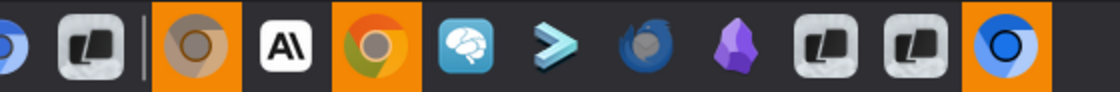
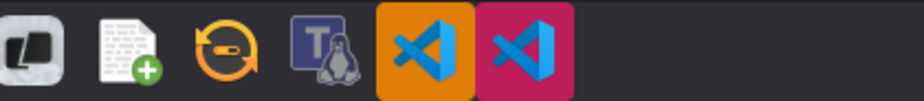
docs: show two colours in the README image, and fix the CI artefact path
The screenshot showed three window buttons all tagged the same orange,
which illustrates the opposite of what the sentence above it promises.
Replaced with two VS Code windows tagged orange and pink side by side:
same application, different colours, told apart at a glance. Captured
from a live panel running the real module, not the spike.

Also fixes the third and last workflow error from the first release
attempt: upload-artifact rejects any path containing "..", and
dpkg-buildpackage writes to the parent directory. The package is now
moved into the workspace before upload, matching what release.yml already
did. The two earlier fixes worked -- the package built, and only the
upload step failed.

diff --git a/README.md b/README.md
@@ -2,9 +2,9 @@
 
 Four VS Code windows in the XFCE panel look like four identical icons. This gives each one its own background colour, so you can find the right window at a glance instead of hovering over each button to read its title.
 
-![Panel window buttons, three of them painted orange while the rest keep the theme's default](docs/images/panel-painted.png)
+![Two VS Code window buttons in the XFCE panel, one tagged orange and one tagged pink, beside other buttons left with the theme's default background](docs/images/panel-painted.png)
 
-*Three browser windows tagged orange. Everything else on the panel is untouched.*
+*Two windows of the same editor, told apart at a glance. Everything else on the panel is untouched.*
 
 It is a GTK 3 module loaded in-process by `xfce4-panel`. It adds a **Background colour** item to the right-click menu of any window button, and paints that button's background. Nothing else on the panel is touched.
 
